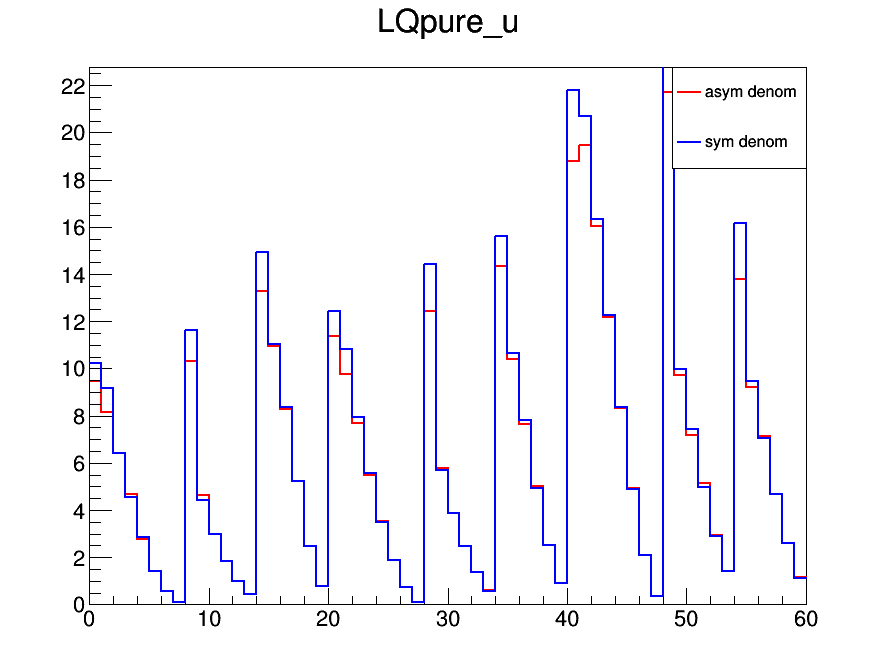
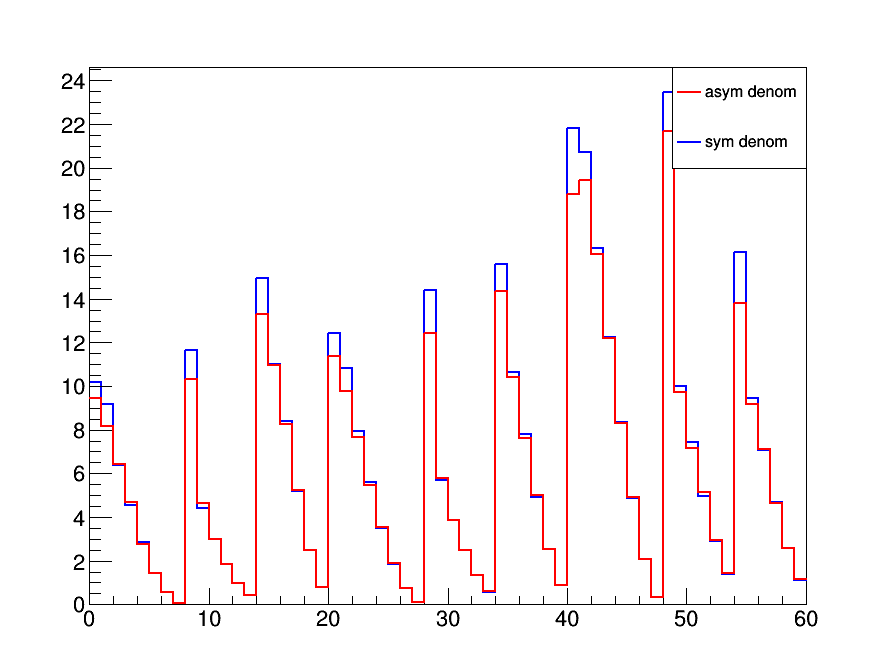
checking the denom

diff --git a/analyze/combine/LQ_make_gen_templates.C b/analyze/combine/LQ_make_gen_templates.C
@@ -232,8 +232,8 @@ void LQ_make_gen_templates(){
         h1_LQpure_test_u->SetLineWidth(2);
         h1_LQpure_u->SetLineWidth(2); 
         h1_LQpure_u->SetTitle("LQpure_u");
-        h1_LQpure_u->Draw("hist");
-        h1_LQpure_test_u->Draw("hist same ");
+        h1_LQpure_test_u->Draw("hist");
+        h1_LQpure_u->Draw("hist same ");
         TLegend *leg5 = new TLegend(0.75, 0.75, 0.9, 0.9);
         leg5->AddEntry(h1_LQpure_u, "asym denom", "l");
         leg5->AddEntry(h1_LQpure_test_u, "sym denom", "l");
@@ -248,8 +248,8 @@ void LQ_make_gen_templates(){
         h1_LQint_test_u->SetLineWidth(2);
         h1_LQint_u->SetLineWidth(2); 
         h1_LQint_u->SetTitle("LQint_u");
-        h1_LQint_u->Draw("hist");
-        h1_LQint_test_u->Draw("hist same ");
+        h1_LQint_test_u->Draw("hist");
+        h1_LQint_u->Draw("hist same ");
         TLegend *leg6 = new TLegend(0.75, 0.75, 0.9, 0.9);
         leg6->AddEntry(h1_LQint_u, "asym denom", "l");
         leg6->AddEntry(h1_LQint_test_u, "sym denom", "l");
